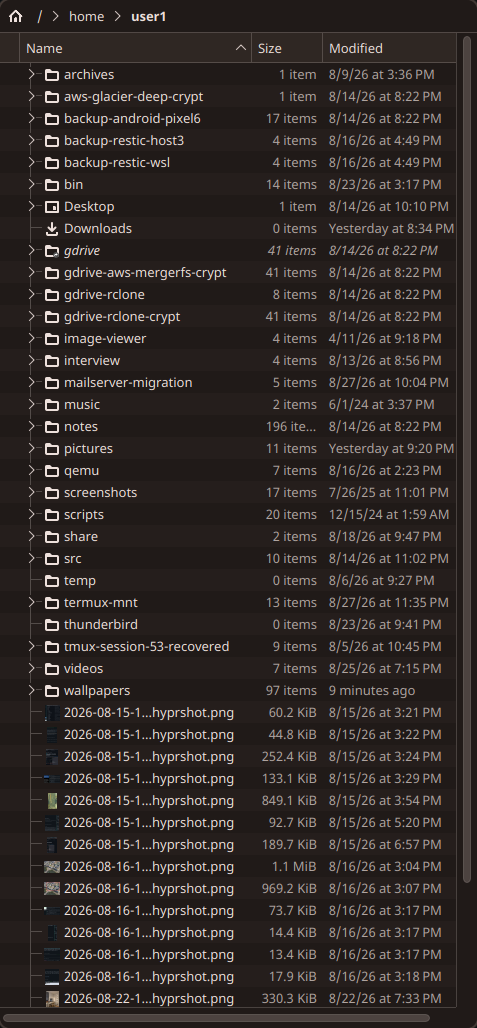
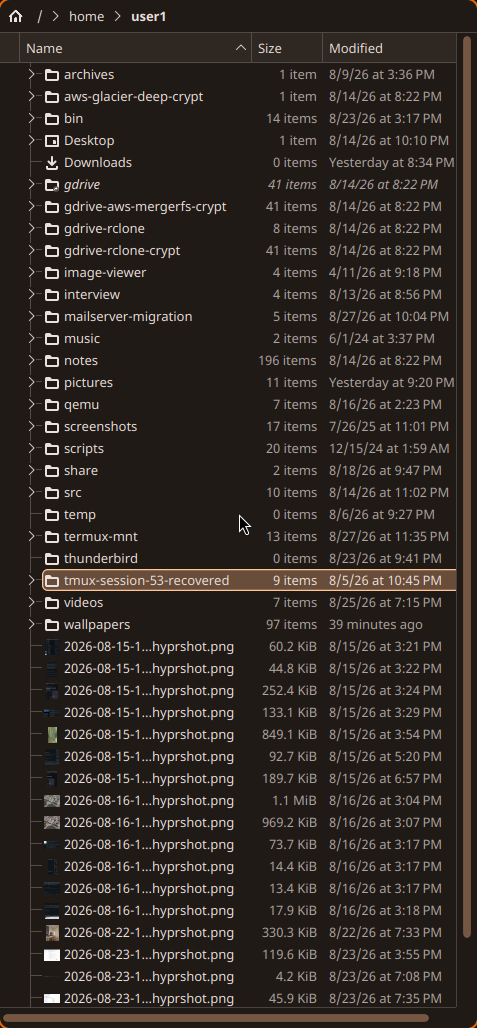
docs/theming: refresh Dolphin screenshot to the flat intended look
Replaces the comparison shot with the post-flatten state (no zebra
striping) and marks it as the intended Breeze+MaterialYou look. Notes the
tree-expander shape difference (darknord's filled triangle came from the
Kvantum SVG; Breeze's chevron isn't configurable).

Claude-Session: https://claude.ai/code/session_018GS1TRu2fUrjroCYpQdqJ3

Changed region(s): [[0.0, 0.0311, 0.9979, 1.0], [0.9686, 0.965, 1.0, 1.0], [0.9979, 0.0, 1.0, 0.0311]]

diff --git a/.config/docs/theming.md b/.config/docs/theming.md
@@ -70,10 +70,22 @@ app. Kvantum has no stylesheet-overlay mechanism, so it can't be recoloured
 live either. `gen-theme.py` now pins `kdeglobals` `widgetStyle=Breeze` each
 run.
 
-| Breeze + MaterialYou (current) | Kvantum / darknord (former) |
+The screenshot on the left is the **intended post-migration look** for
+Dolphin: flat list (no zebra striping — `[Colors:View] BackgroundAlternate`
+== `BackgroundNormal`, see below), a slightly lighter breadcrumb/toolbar
+band for chrome-vs-content separation, warm hover/selection tint, and the
+whole palette tracking the wallpaper.
+
+| Breeze + MaterialYou (current, intended) | Kvantum / darknord (former) |
 |---|---|
 | ![Breeze + MaterialYou](images/dolphin-breeze-materialyou.png) | ![Kvantum darknord](images/dolphin-kvantum-darknord.png) |
-| layered depth (toolbar/header lighter than the list), follows the wallpaper hue | flat near-black Nord `#14161B`, fixed cool palette, blue folder icons |
+| flat list, subtle toolbar elevation, follows the wallpaper hue | flat near-black Nord `#14161B`, fixed cool palette, blue folder icons, filled ▶ tree expanders (from the Kvantum SVG — Breeze draws a thin chevron and has no knob for it) |
+
+`color_sections()` in `gen-theme.py` sets `view_alt = view_bg` so list
+views don't stripe (the Breeze default read as too strong on warm
+wallpapers; darknord had it off entirely). Chrome elevation
+(View → Window → Button) is still interpolated `background` →
+`surfaceContainer`.
 
 `gen-theme.py` writes the **complete** Breeze key set into `kdeglobals`
 `[Colors:*]` (every section + all `Foreground*`/`Decoration*` keys, plus
